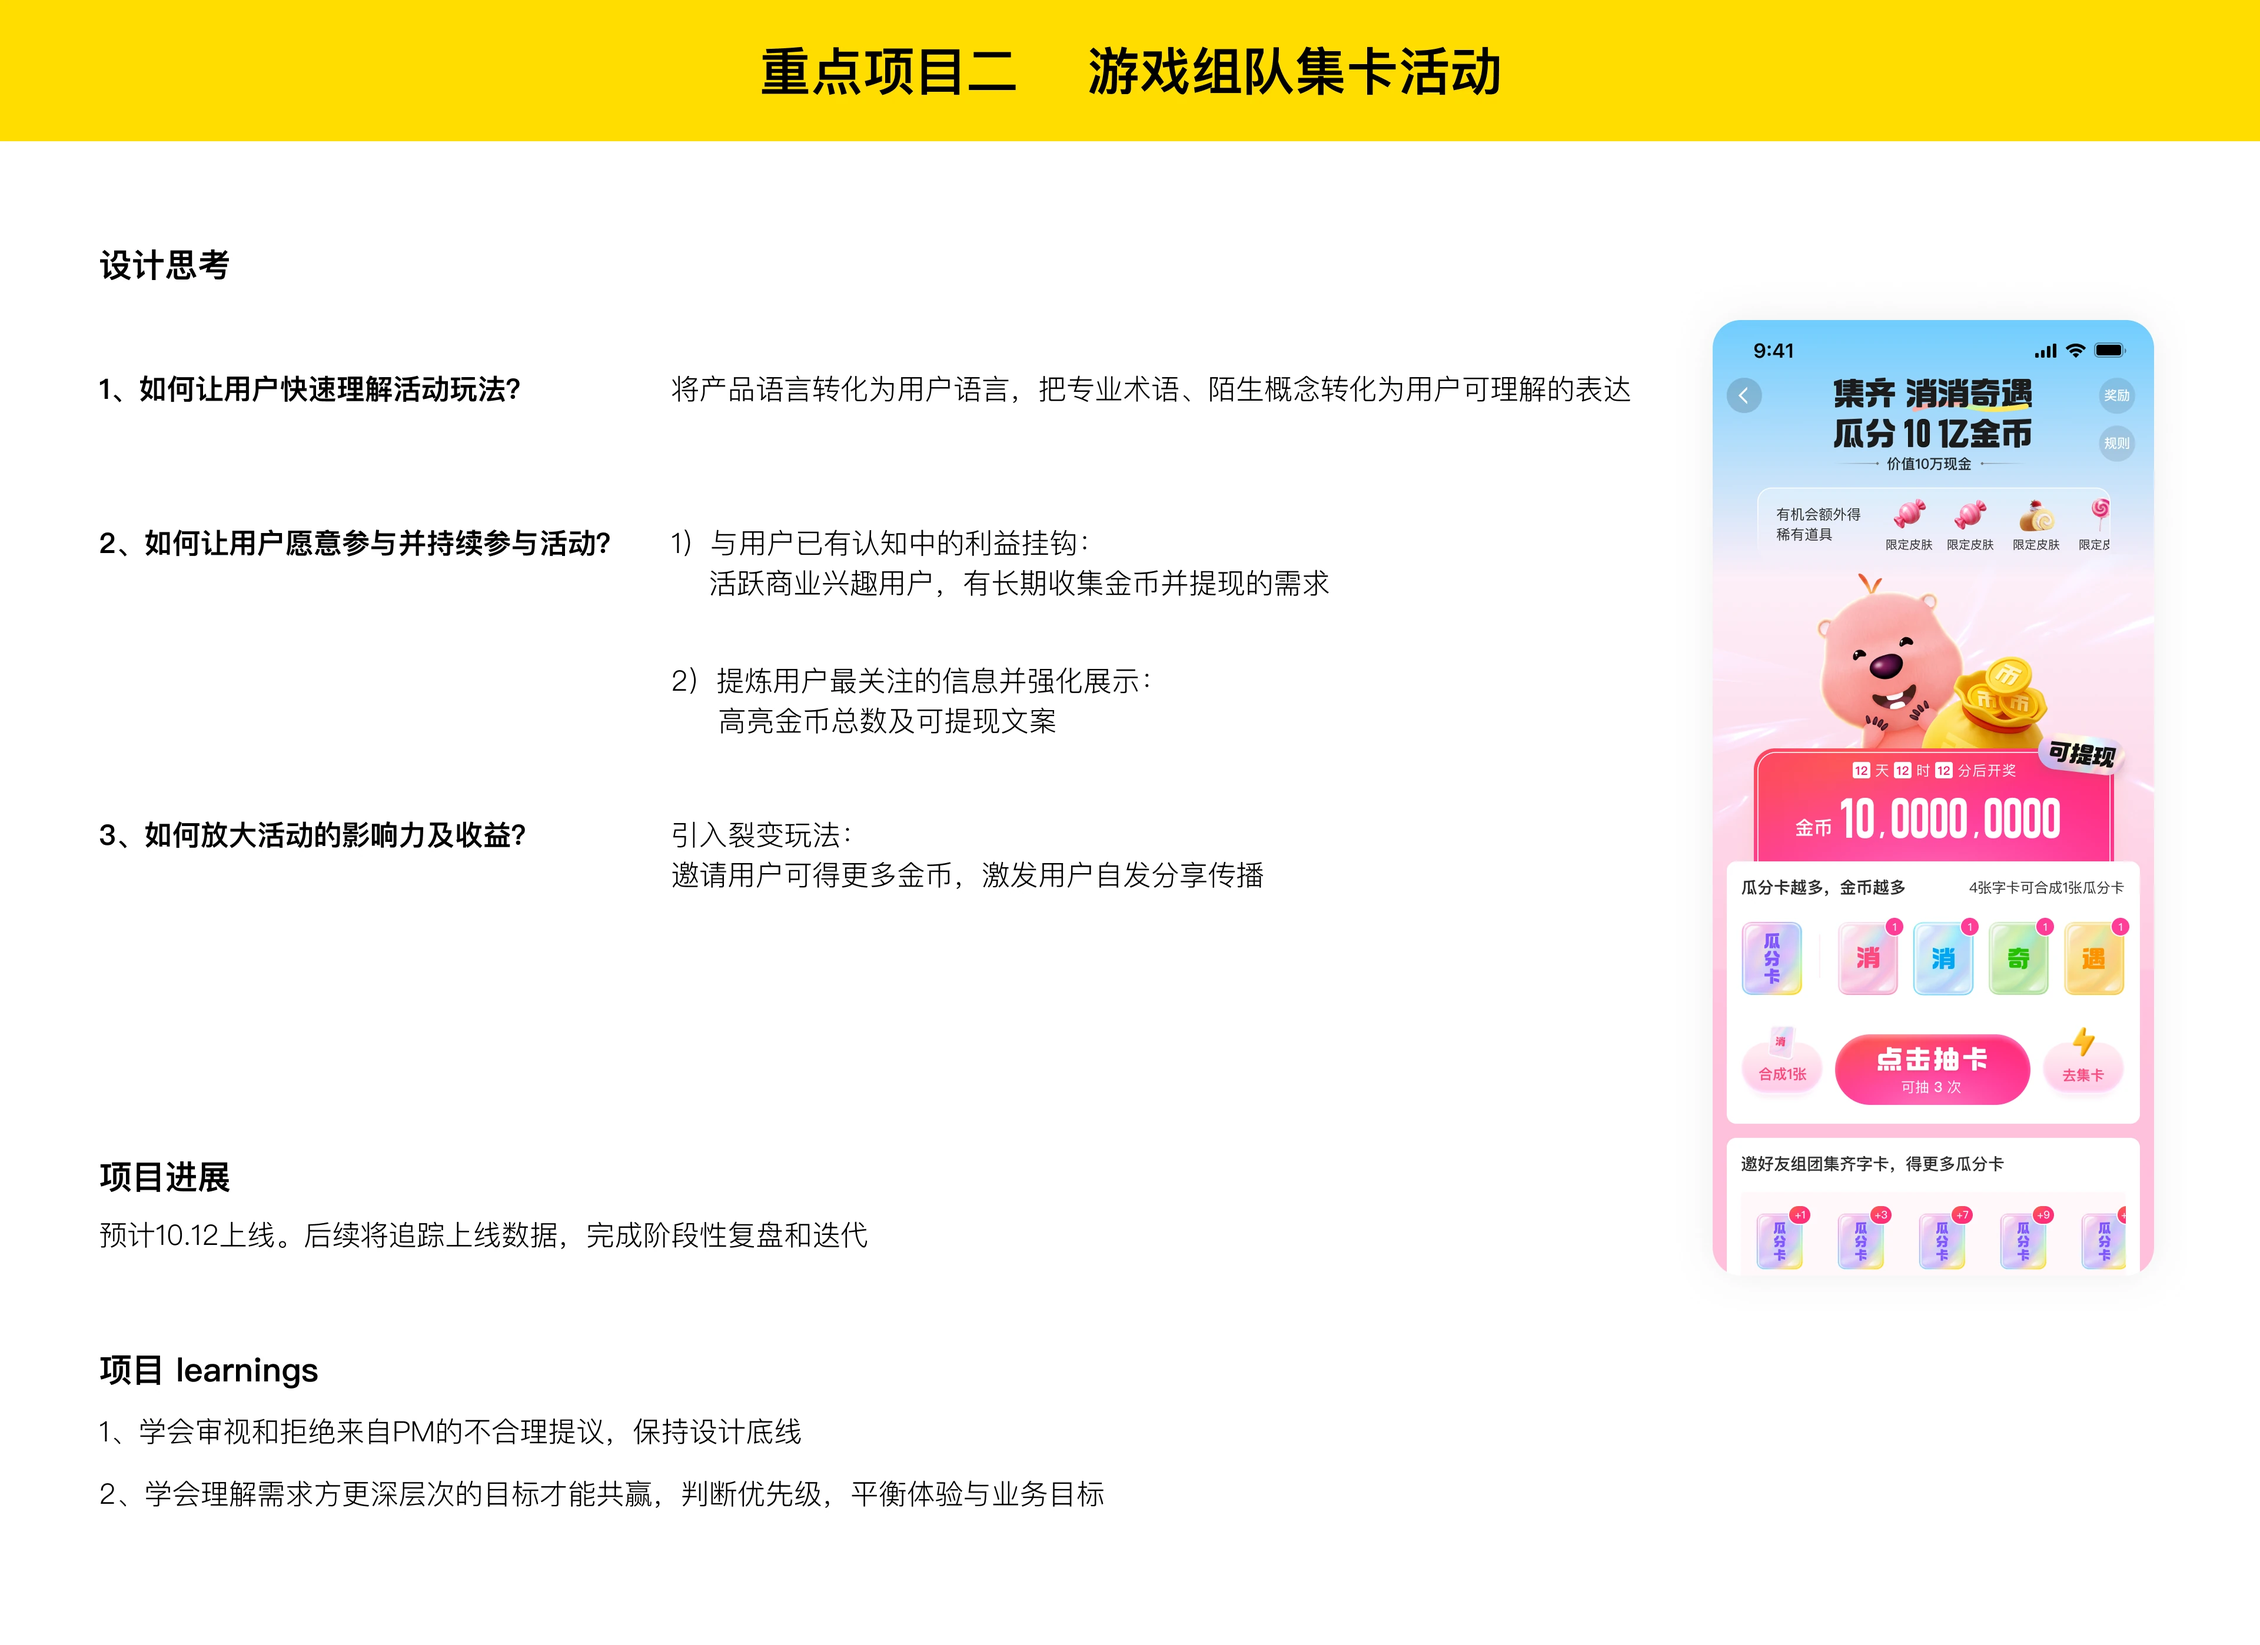
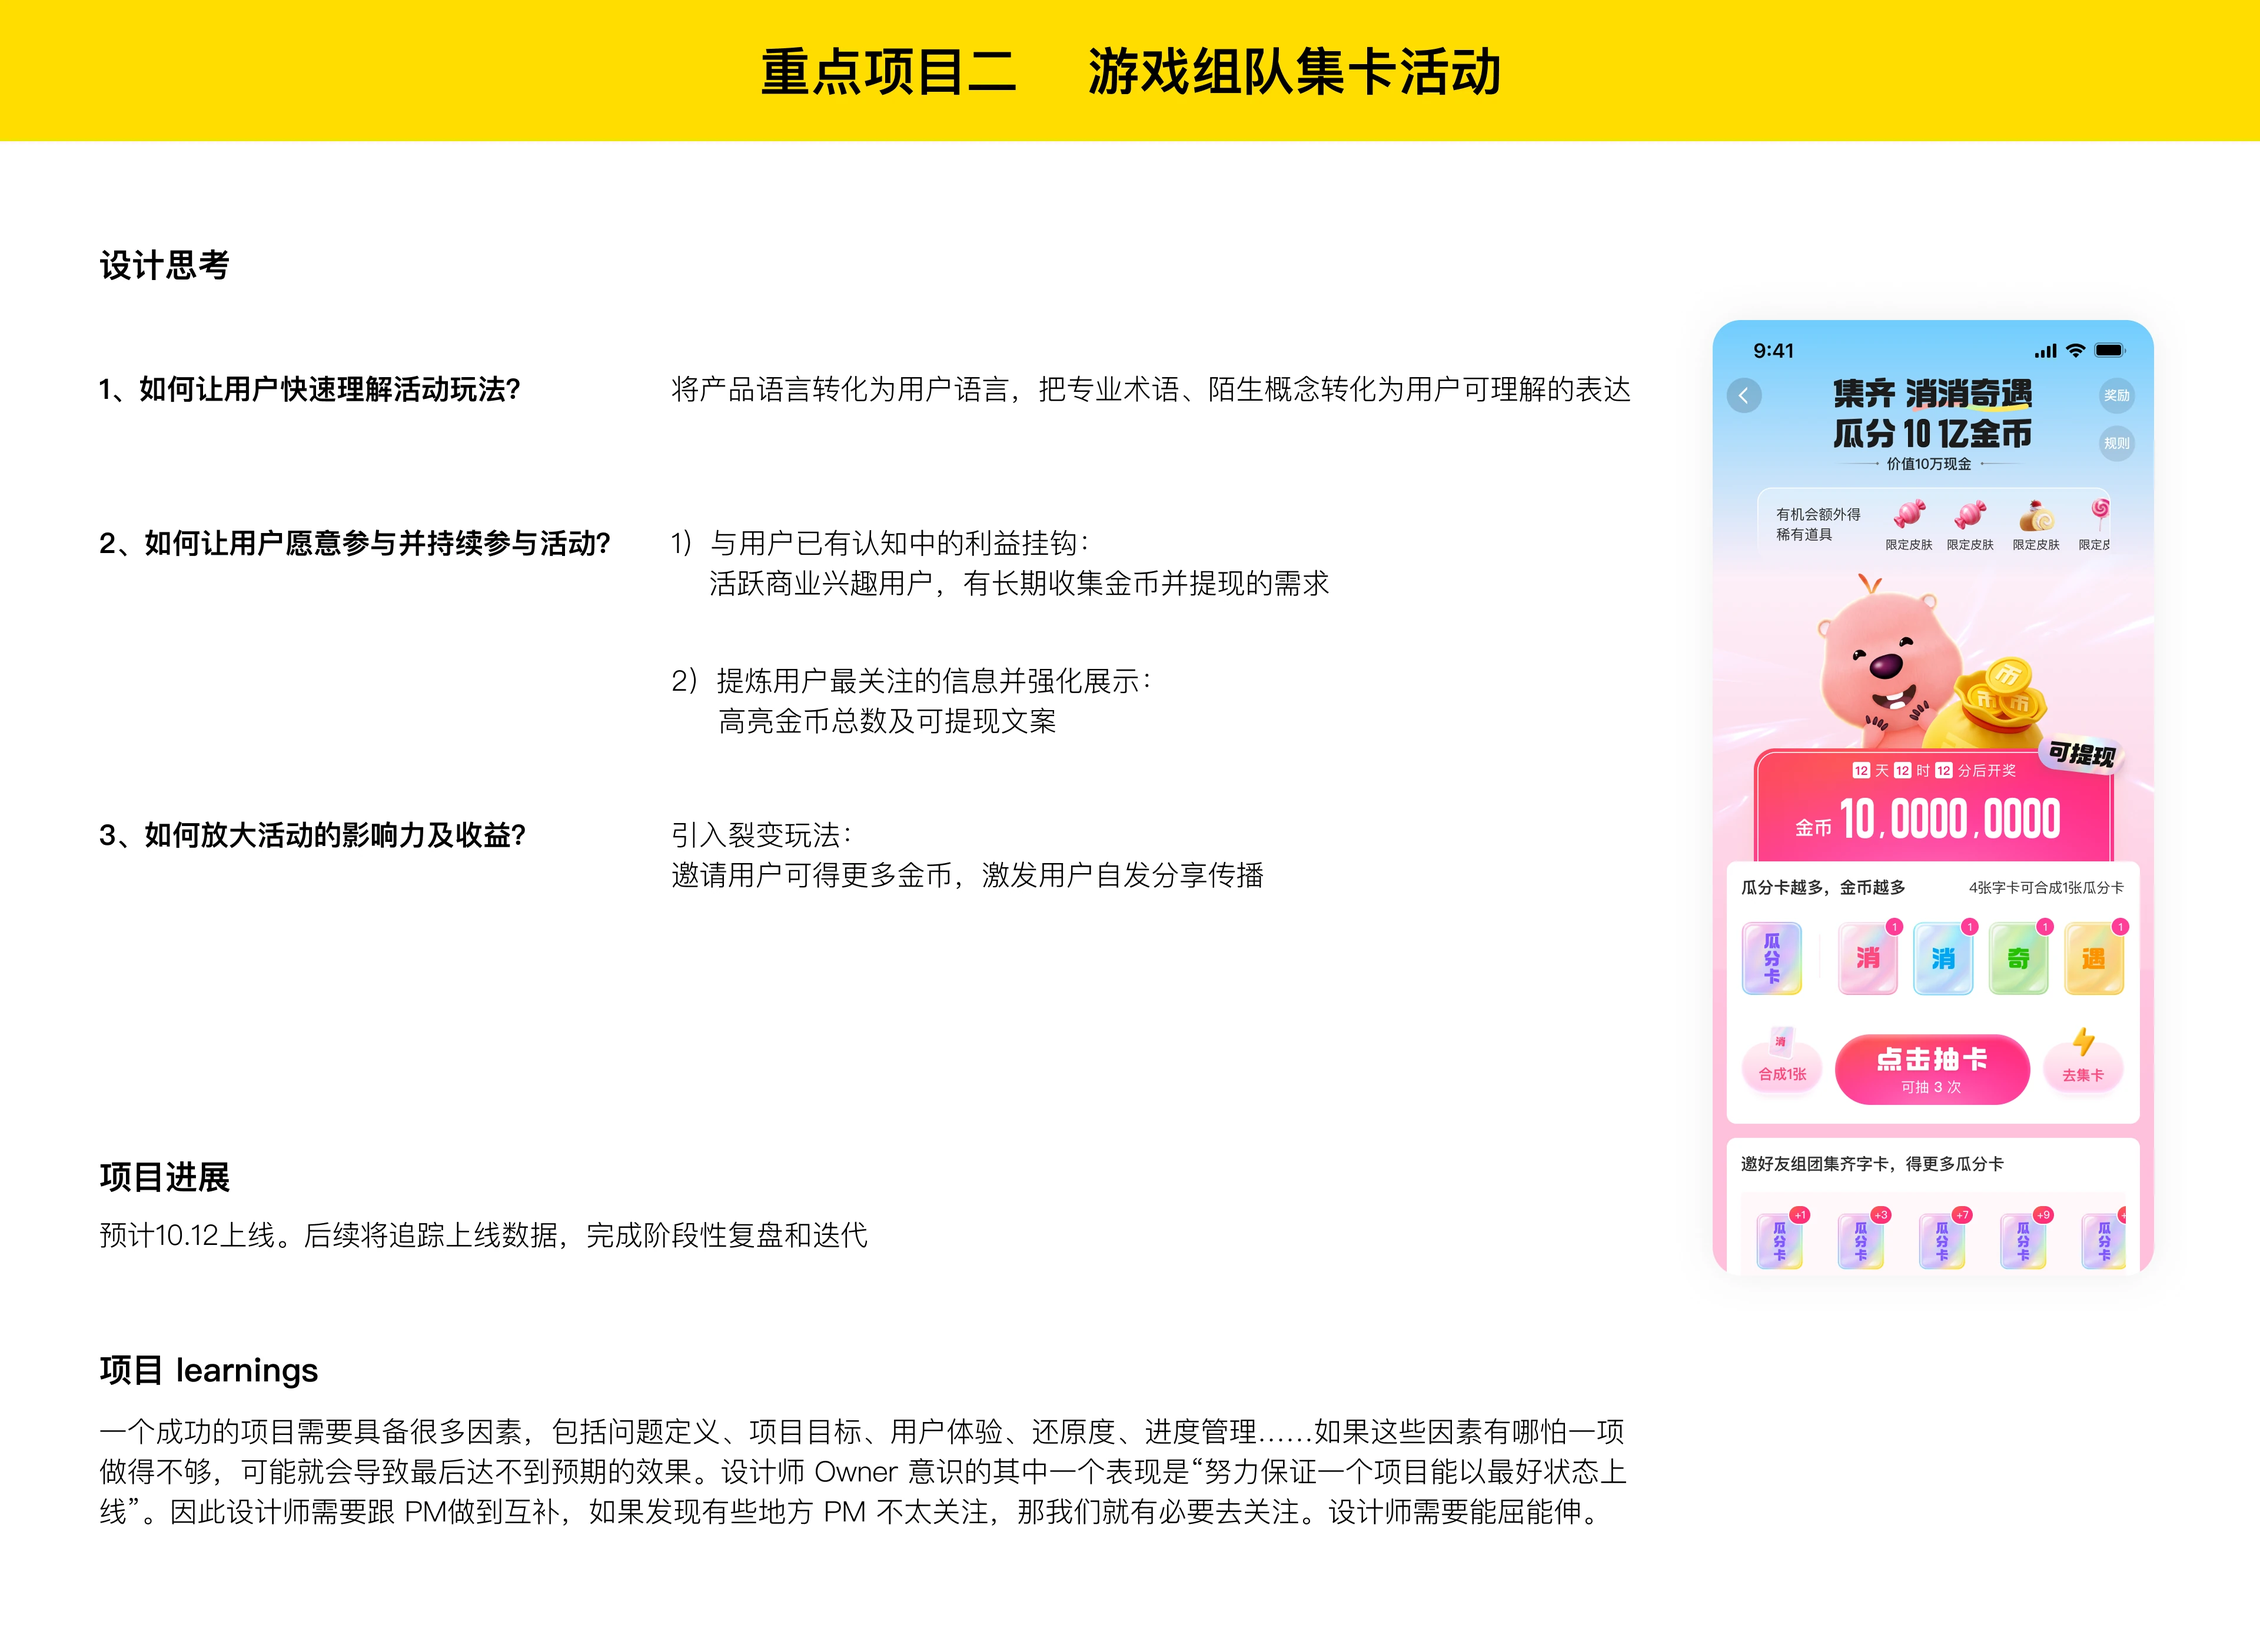
更新切图：17 页，转 WebP 后共 5.9MB

Changed region(s): [[0.0312, 0.8401, 0.7188, 0.9335]]

diff --git a/index.html b/index.html
@@ -44,13 +44,31 @@
           <img class="shot" src="assets/08.webp" width="1920" height="1080" loading="lazy" decoding="async" alt="" />
         </section>
         <section class="slide">
-          <img class="shot" src="assets/09.webp" width="1920" height="1808" loading="lazy" decoding="async" alt="" />
+          <img class="shot" src="assets/09.webp" width="1920" height="1807" loading="lazy" decoding="async" alt="" />
         </section>
         <section class="slide">
           <img class="shot" src="assets/10.webp" width="1920" height="1080" loading="lazy" decoding="async" alt="" />
         </section>
         <section class="slide">
           <img class="shot" src="assets/11.webp" width="1920" height="2770" loading="lazy" decoding="async" alt="" />
+        </section>
+        <section class="slide">
+          <img class="shot" src="assets/12.webp" width="1920" height="2625" loading="lazy" decoding="async" alt="" />
+        </section>
+        <section class="slide">
+          <img class="shot" src="assets/13.webp" width="1920" height="1408" loading="lazy" decoding="async" alt="" />
+        </section>
+        <section class="slide">
+          <img class="shot" src="assets/14.webp" width="1920" height="1770" loading="lazy" decoding="async" alt="" />
+        </section>
+        <section class="slide">
+          <img class="shot" src="assets/15.webp" width="1920" height="1407" loading="lazy" decoding="async" alt="" />
+        </section>
+        <section class="slide">
+          <img class="shot" src="assets/16.webp" width="1920" height="1528" loading="lazy" decoding="async" alt="" />
+        </section>
+        <section class="slide">
+          <img class="shot" src="assets/17.webp" width="1920" height="1971" loading="lazy" decoding="async" alt="" />
         </section>
         <!-- /BUILD:SLIDES -->
       </div>

diff --git a/tools/build.py b/tools/build.py
@@ -187,7 +187,7 @@ def slide_html(entry, first, lazy, hotspots):
             scale = derived
         elif raw_width % DESIGN_WIDTH:
             notes.append("宽度 %d 不是 %d 的整数倍" % (raw_width, DESIGN_WIDTH))
-        height = max(2, round(round(raw_height / scale) / 2) * 2)
+        height = max(1, round(raw_height / scale))
         attrs += ['width="%d"' % DESIGN_WIDTH, 'height="%d"' % height]
     else:
         notes.append("读不出尺寸，请手动给这页加 data-h")
